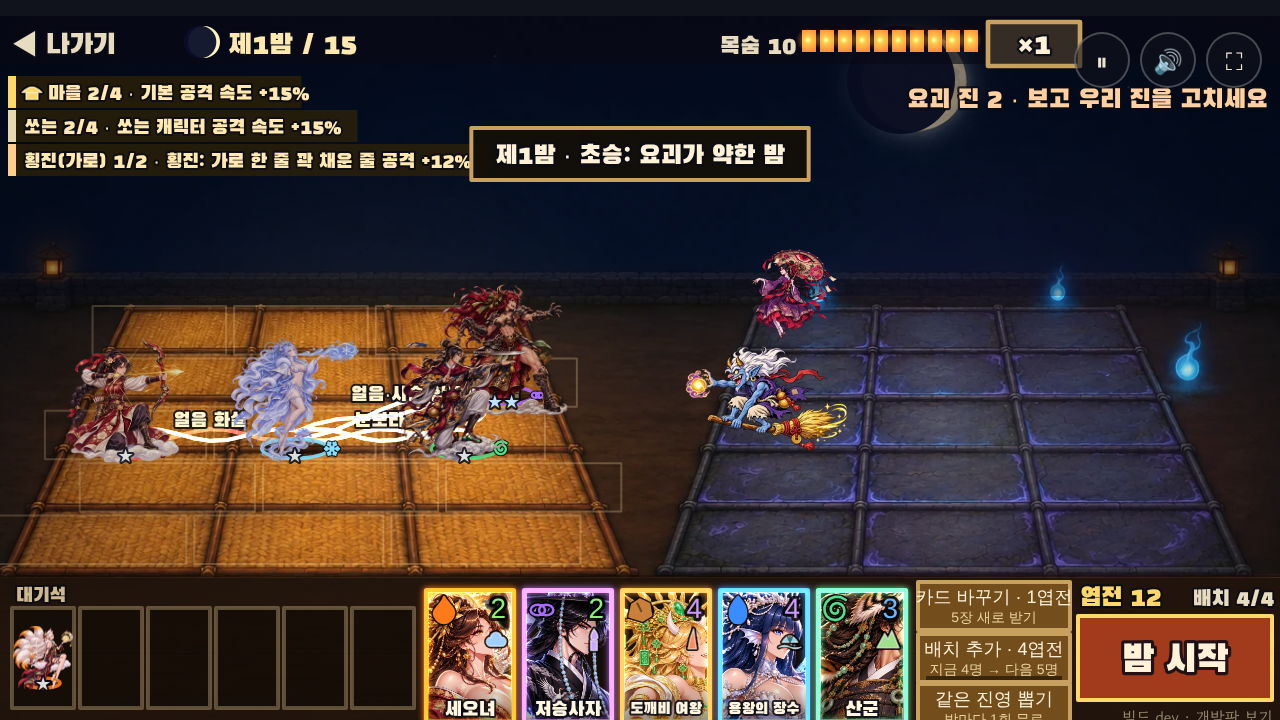
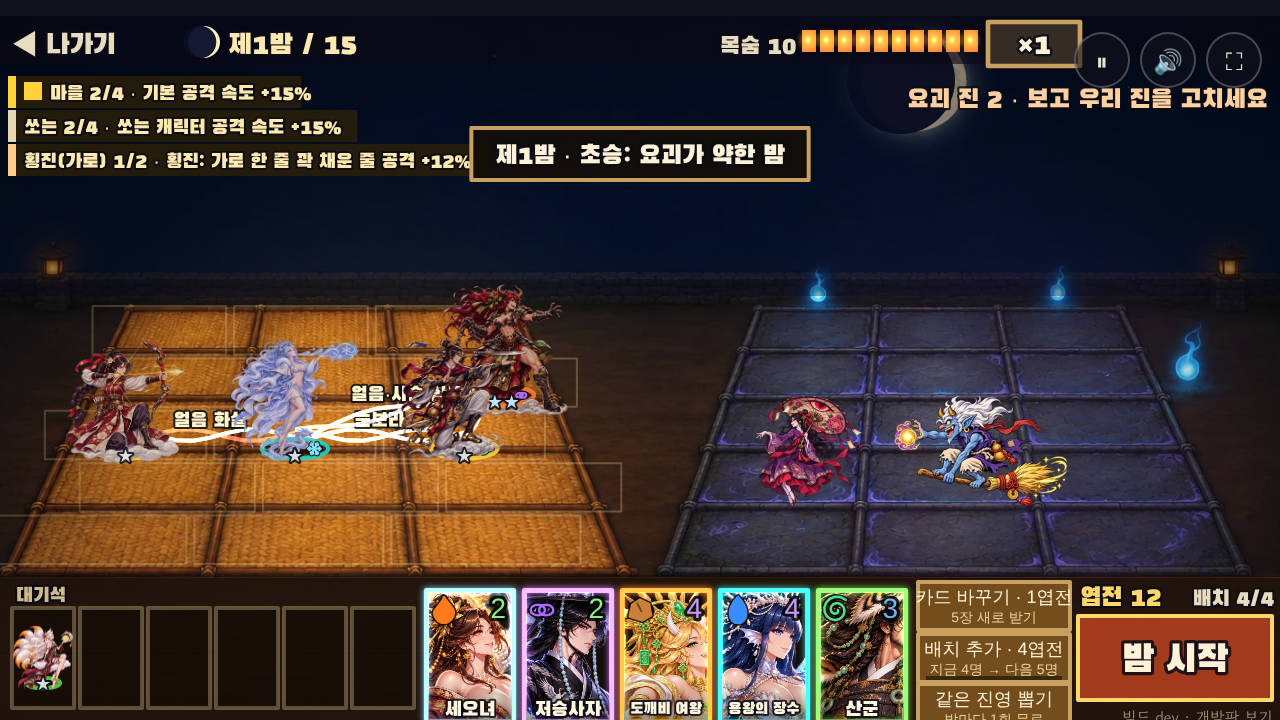
그믐: 달밤 진법 카드 — 테두리를 진영 색(하늘·저승·용궁·도깨비·산·마을 6색)으로, 숫자 밑 진영 문양 없앰, 속성은 왼쪽 위 문양 색, 진판 발밑 고리 = 진영 색 + 속성 문양, 진법 책·조합 목록 진영 색 견본 (기획 26 19절)
Claude-Session: https://claude.ai/code/session_01X3WCR5Skc58i6ujNZho15h

diff --git a/game/geumeum/dokkaebi-shooter.html b/game/geumeum/dokkaebi-shooter.html
@@ -4777,7 +4777,7 @@ const JCH = Array.from({ length: 23 }, (_, i) => i); // 23명 모두
 const JCOST = { 0: 5, 1: 5, 2: 5, 3: 1, 4: 2, 5: 3, 7: 3, 13: 2, 16: 1, 17: 1, 6: 2, 8: 4, 9: 4, 10: 4, 11: 4, 12: 4, 14: 2, 15: 3, 18: 1, 19: 3, 20: 1, 21: 2, 22: 3 };
 const JROOT = { 하늘: [2, 18, 21, 0], 저승: [13, 14, 22, 11], 용궁: [9, 8, 17, 7], 도깨비: [3, 10, 12, 4], 산: [19, 15, 6, 5], 마을: [1, 16, 20] };
 const JROOTD = { 하늘: ['스킬 기운 +20%', '밤 시작에 별빛 일격'], 저승: ['쓰러진 아군 1명 되살림(밤당 1번)', '쓰러진 적이 넋이 되어 터짐'], 용궁: ['맞은 적 젖음 오래감(피해 +10%)', '밤마다 물결 방벽 1번'], 도깨비: ['처치마다 진 엽전 +1(밤당 5)', '뚝딱: 아군 하나 1밤 동안 단계 +1'], 산: ['앞줄 막는 힘(체력) +25%', '산신 울음: 첫 5초 적 느려짐'], 마을: ['기본 공격 속도 +15%', '응원: 목숨 1개 되살림(판당 1번)'] };
-const JROOTC = { 하늘: '#9fd0ff', 저승: '#c9a8ff', 용궁: '#7fd6e6', 도깨비: '#ff8a5a', 산: '#9fe08a', 마을: '#ffd76a' };
+const JROOTC = { 하늘: '#6fc4ff', 저승: '#b072ff', 용궁: '#22d3c0', 도깨비: '#ff7a2a', 산: '#5ad04a', 마을: '#ffd23a' }; // 진영 색(카드 테두리·발밑 고리, 서로 또렷이)
 const jRootOf = ch => Object.keys(JROOT).find(k => JROOT[k].includes(ch));
 const JROLE = { 4: 'tank', 13: 'tank', 16: 'melee', 17: 'tank', 3: 'melee', 6: 'tank', 9: 'tank', 15: 'tank', 19: 'melee', 10: 'melee', 11: 'melee', 12: 'melee', 22: 'melee' }; // 나머지 = 쏘는
 const JSKT = { 6: 't6_totem', 8: 't8_lightning_wave', 9: 't9_water_slash', 10: 't10_fire_sword', 11: 't11_black_crescent', 12: 't12_gold_club', 14: 't14_lotus', 15: 't15_fire_breath', 18: 't18_web', 19: 't19_tiger_ring', 20: 't20_mask', 21: 't21_sun_silk', 22: 't22_lightning_spear', 0: 't0a_whirl', 1: 't1b_arrow_big', 2: 't2a_beam', 3: 't3_mask_bomb', 4: 't4_iron_ball', 5: 't5_foxfire', 7: 't7_ice_patch', 13: 't13_chain_tag', 16: 't16_cloud_sword', 17: 't17_whirlpool' };
@@ -4954,16 +4954,15 @@ const jElIconURL = (() => { const M = {}; return el => { if (M[el]) return M[el]
 function jCard(ch, x, y, w, h, cost) { const el = SKEL[ch] || 'heavy', ec = JELC[el] || '#c8a070', im = IMG[look(ch).cut], rc = JROOTC[jRootOf(ch)] || '#fff'; ctx.save(); ctx.fillStyle = 'rgba(20,14,10,.94)'; ctx.fillRect(x, y, w, h);
   if (ok(im)) { ctx.save(); ctx.beginPath(); ctx.rect(x + 2, y + 2, w - 4, h - 4); ctx.clip(); const sw = im.width * 0.42 / 1.3, sh = sw * (h - 4) / (w - 4); ctx.drawImage(im, im.width * 0.5 - sw / 2, im.height * 0.06, sw, sh, x + 2, y + 2, w - 4, h - 4); ctx.restore(); }
   // 테두리 = 속성 색
-  ctx.save(); ctx.globalCompositeOperation = 'lighter'; ctx.shadowColor = ec; ctx.shadowBlur = 6; ctx.strokeStyle = ec; ctx.lineWidth = 2.5; ctx.strokeRect(x + 1.2, y + 1.2, w - 2.4, h - 2.4); ctx.restore();
+  ctx.save(); ctx.globalCompositeOperation = 'lighter'; ctx.shadowColor = rc; ctx.shadowBlur = 6; ctx.strokeStyle = rc; ctx.lineWidth = 2.5; ctx.strokeRect(x + 1.2, y + 1.2, w - 2.4, h - 2.4); ctx.restore();
   const thin = (str, tx, ty, size, col, al) => { ctx.save(); ctx.font = '500 ' + size + 'px "Noto Sans KR","Apple SD Gothic Neo","Malgun Gothic",sans-serif'; ctx.textAlign = al || 'left'; ctx.lineJoin = 'round'; ctx.lineWidth = 3; ctx.strokeStyle = 'rgba(0,0,0,.85)'; ctx.strokeText(str, tx, ty); ctx.fillStyle = col; ctx.fillText(str, tx, ty); ctx.restore(); };
   // 왼쪽 위 속성(한글, 배경 없이 글자만)
   jElIcon(el, x + 10, y + 11, 6.5, ec);
   // 왼쪽 아래 뿌리 점(작게)
   // 오른쪽 위 값: 배경 없이 숫자만, 값에 따라 글자색
-  if (jRootOf(ch)) jRootIcon(jRootOf(ch), x + w - 10, y + 26, 5.5, rc);
   thin(cost + '', x + w - 5, y + 15, 14, ['#e8e8e8', '#8af07a', '#6ab8ff', '#c99aff', '#ffd23a'][cost - 1] || '#ffd23a', 'right');
   { const g = ctx.createLinearGradient(0, y + h - 22, 0, y + h); g.addColorStop(0, 'rgba(0,0,0,0)'); g.addColorStop(1, 'rgba(0,0,0,.45)'); ctx.fillStyle = g; ctx.fillRect(x + 2, y + h - 22, w - 4, 20); } { const nm = CH[ch].name; ctx.font = '10px ' + FONT; const mw = ctx.measureText(nm).width; if (mw <= w - 6) text(nm, x + w / 2, y + h - 4, 10, '#fff6e0', 'center'); else if (mw * 0.8 <= w - 6) text(nm, x + w / 2, y + h - 5, 8, '#fff6e0', 'center'); else { const sp = nm.indexOf(' '), a = sp > 0 ? nm.slice(0, sp) : nm.slice(0, Math.ceil(nm.length / 2)), b = sp > 0 ? nm.slice(sp + 1) : nm.slice(Math.ceil(nm.length / 2)); text(a, x + w / 2, y + h - 11, 7.5, '#fff6e0', 'center'); text(b, x + w / 2, y + h - 3, 7.5, '#fff6e0', 'center'); } } ctx.restore(); }
-function jUnitSpr(u, x, y, sc, a) { if (u.yk) { ctx.save(); ctx.globalCompositeOperation = 'lighter'; glow('blue', x, y - 14 * sc, 30 * sc, 0.5); ctx.restore(); ctx.save(); ctx.globalAlpha = 0.9; spr(u.img, x, y - 20 * sc, 44 * sc * JINK.spr, { flip: 1 }); ctx.restore(); text('封', x + 16 * sc, y + 12 * sc, 11, '#9fd8ff', 'center'); return; } ctx.save(); ctx.globalAlpha = (a == null ? 1 : a) * 0.55; ctx.fillStyle = '#000'; ctx.beginPath(); ctx.ellipse(x, y + 7 * sc, 17 * sc, 5 * sc, 0, 0, TAU); ctx.fill(); { const el = SKEL[u.ch] || 'heavy', bl = J && J.drag && J.drag.u !== u && (SKEL[J.drag.u.ch] || 'heavy') === el; ctx.globalAlpha = (a == null ? 1 : a) * (bl ? 0.5 + 0.5 * Math.abs(Math.sin(G.time * 8)) : 0.9); ctx.strokeStyle = JELC[el] || '#fff'; ctx.lineWidth = bl ? 2.6 : 1.8; ctx.stroke(); ctx.globalAlpha = (a == null ? 1 : a); if (y < JB.uiY) jElIcon(el, x + 19 * sc, y + 7 * sc, 3.6 * Math.max(0.9, sc), JELC[el]); } ctx.restore(); const img = u.star === 3 && AWK2.spr[u.ch] && ok(IMG[AWK2.spr[u.ch]]) ? AWK2.spr[u.ch] : look(u.ch).img; ctx.save(); if (a != null) ctx.globalAlpha = a; if (u.star === 3) { ctx.globalCompositeOperation = 'lighter'; glow('gold', x, y, 22 * sc, 0.5); ctx.globalCompositeOperation = 'source-over'; } { const v = (y - JB.tl[1]) / (JB.bl[1] - JB.tl[1]); if (v >= -0.1 && v <= 1.1 && !(J && J.hlU === u)) ctx.filter = 'brightness(' + (0.68 + 0.32 * Math.max(0, Math.min(1, v))).toFixed(2) + ')'; } spr(img, x, y - 18 * sc * (J && J.big === 0 ? 0.6 : 1), (u.star === 3 ? 62 : u.star === 2 ? 54 : 48) * sc * JINK.spr, { flip: CH[u.ch].flip }); ctx.restore(); text('★'.repeat(u.star), x, y + 14 * sc, 8, u.star === 3 ? '#ffd76a' : u.star === 2 ? '#bfe4ff' : '#ddd', 'center'); }
+function jUnitSpr(u, x, y, sc, a) { if (u.yk) { ctx.save(); ctx.globalCompositeOperation = 'lighter'; glow('blue', x, y - 14 * sc, 30 * sc, 0.5); ctx.restore(); ctx.save(); ctx.globalAlpha = 0.9; spr(u.img, x, y - 20 * sc, 44 * sc * JINK.spr, { flip: 1 }); ctx.restore(); text('封', x + 16 * sc, y + 12 * sc, 11, '#9fd8ff', 'center'); return; } ctx.save(); ctx.globalAlpha = (a == null ? 1 : a) * 0.55; ctx.fillStyle = '#000'; ctx.beginPath(); ctx.ellipse(x, y + 7 * sc, 17 * sc, 5 * sc, 0, 0, TAU); ctx.fill(); { const el = SKEL[u.ch] || 'heavy', bl = J && J.drag && J.drag.u !== u && (SKEL[J.drag.u.ch] || 'heavy') === el; ctx.globalAlpha = (a == null ? 1 : a) * (bl ? 0.5 + 0.5 * Math.abs(Math.sin(G.time * 8)) : 0.9); ctx.strokeStyle = JROOTC[jRootOf(u.ch)] || '#fff'; ctx.lineWidth = bl ? 2.8 : 2.2; ctx.stroke(); ctx.globalAlpha = (a == null ? 1 : a); if (y < JB.uiY) jElIcon(el, x + 10 * sc, y + 7 * sc, 3.2 * Math.max(0.9, sc), JELC[el]); } ctx.restore(); const img = u.star === 3 && AWK2.spr[u.ch] && ok(IMG[AWK2.spr[u.ch]]) ? AWK2.spr[u.ch] : look(u.ch).img; ctx.save(); if (a != null) ctx.globalAlpha = a; if (u.star === 3) { ctx.globalCompositeOperation = 'lighter'; glow('gold', x, y, 22 * sc, 0.5); ctx.globalCompositeOperation = 'source-over'; } { const v = (y - JB.tl[1]) / (JB.bl[1] - JB.tl[1]); if (v >= -0.1 && v <= 1.1 && !(J && J.hlU === u)) ctx.filter = 'brightness(' + (0.68 + 0.32 * Math.max(0, Math.min(1, v))).toFixed(2) + ')'; } spr(img, x, y - 18 * sc * (J && J.big === 0 ? 0.6 : 1), (u.star === 3 ? 62 : u.star === 2 ? 54 : 48) * sc * JINK.spr, { flip: CH[u.ch].flip }); ctx.restore(); text('★'.repeat(u.star), x, y + 14 * sc, 8, u.star === 3 ? '#ffd76a' : u.star === 2 ? '#bfe4ff' : '#ddd', 'center'); }
 function jMoon(x, y, r, n) { ctx.save(); ctx.fillStyle = '#fff3c0'; ctx.beginPath(); ctx.arc(x, y, r, 0, TAU); ctx.fill(); const k = n <= 8 ? n / 8 : (15 - n) / 7, side = n <= 8 ? -1 : 1; if (k < 0.98) { ctx.fillStyle = 'rgba(10,14,40,.95)'; ctx.beginPath(); ctx.arc(x + side * r * 2 * k, y, r * 1.02, 0, TAU); ctx.fill(); } ctx.restore(); }
 // 배경 정리(사용자 11/24): 마을·하늘은 흐리고 어둡게, 진판 두 곳만 또렷하게 — 한 번만 만들어 둠
 let jBgC = null;
@@ -5019,7 +5018,7 @@ function jDraw() { ctx.setTransform(SC, 0, 0, SC, 0, 0); JINK.spr = J && (J.phas
   ctx.save(); ctx.fillStyle = 'rgba(10,8,20,.6)'; ctx.fillRect(0, 0, W, 24); ctx.restore(); text('◀ 나가기', 6, 19, 14, '#e8dcc0'); { const b = JUI.spd, on = JS().spd === 2; ctx.fillStyle = on ? 'rgba(170,90,30,.95)' : 'rgba(60,50,40,.85)'; ctx.fillRect(b.x, b.y, b.w, b.h); ctx.strokeStyle = '#c8a060'; ctx.strokeRect(b.x, b.y, b.w, b.h); text(on ? '×2' : '×1', b.x + b.w / 2, b.y + 16, 14, '#fff2d8', 'center'); } jMoon(102, 13, 8, J.night); text((J.tut ? '배우기 · ' : '') + '제' + J.night + '밤 / ' + (J.tut ? 3 : JIN.nights) + (!J.tut && JIN.bossN.includes(J.night) ? ' · 대장' : ''), 114, 19, 14, '#ffe9b0');
   for (let i = 0; i < JIN.lanterns; i++) { const x = W / 2 + 84 + i * 9, lit = i < J.lan; ctx.fillStyle = lit ? '#ff8a3a' : '#3a3030'; ctx.fillRect(x - 3, 7, 7, 11); if (lit) { ctx.save(); ctx.globalCompositeOperation = 'lighter'; glow('fire', x, 12, 6, 0.6); ctx.restore(); } } text('목숨 ' + J.lan, W / 2 + 40, 19, 12, '#e8dcc0');
   // 뿌리 목록(왼쪽 위)
-  const SY = jSyn().filter(o => o.lv > 0 || (o.n >= 2 && o.n >= o.need - 1)); let ry = 42; for (const o of SY.slice(0, 7)) { const nm = o.name || o.k, s0 = nm + ' ' + o.n + '/' + o.need + (o.lv ? ' · ' + o.d[Math.min(o.d.length, o.lv) - 1] : ''); ctx.font = '10px ' + FONT; const rw = Math.min(300, ctx.measureText(s0).width + 16); ctx.fillStyle = o.lv ? 'rgba(40,30,10,.9)' : 'rgba(20,20,30,.72)'; ctx.fillRect(4, ry - 12, rw, 16); ctx.fillStyle = o.col; ctx.fillRect(4, ry - 12, 4, 16); if (o.g === 'root') { jRootIcon(o.k, 16, ry - 4, 5, o.col); text(s0, 24, ry, 10, o.lv ? '#ffe9b0' : '#cfcfcf'); } else text(s0, 12, ry, 10, o.lv ? '#ffe9b0' : '#cfcfcf'); ry += 17; } if (SY.length > 7) text('+' + (SY.length - 7) + '개 더 (진법 책)', 8, ry, 9, '#cdb890');
+  const SY = jSyn().filter(o => o.lv > 0 || (o.n >= 2 && o.n >= o.need - 1)); let ry = 42; for (const o of SY.slice(0, 7)) { const nm = o.name || o.k, s0 = nm + ' ' + o.n + '/' + o.need + (o.lv ? ' · ' + o.d[Math.min(o.d.length, o.lv) - 1] : ''); ctx.font = '10px ' + FONT; const rw = Math.min(300, ctx.measureText(s0).width + 16); ctx.fillStyle = o.lv ? 'rgba(40,30,10,.9)' : 'rgba(20,20,30,.72)'; ctx.fillRect(4, ry - 12, rw, 16); ctx.fillStyle = o.col; ctx.fillRect(4, ry - 12, 4, 16); if (o.g === 'root') { ctx.fillStyle = o.col; ctx.fillRect(12, ry - 9, 9, 9); text(s0, 25, ry, 10, o.lv ? '#ffe9b0' : '#cfcfcf'); } else text(s0, 12, ry, 10, o.lv ? '#ffe9b0' : '#cfcfcf'); ry += 17; } if (SY.length > 7) text('+' + (SY.length - 7) + '개 더 (진법 책)', 8, ry, 9, '#cdb890');
   if (fight) { text('처치 ' + J.kills + ' · 남은 요괴 ' + J.en.length + ' · ' + Math.max(0, Math.ceil(JIN.fightMax - J.ft)) + '초', W - 6, 46, 13, '#ffd0a0', 'right'); } else if (J.foe) text('요괴 진 ' + J.foe.length + (J.foe.some(f => f.boss) ? ' · 대장' : '') + ' · 보고 우리 진을 고치세요', W - 6, 46, 13, '#ffd0a0', 'right');
   // 아래 띠
   ctx.save(); ctx.fillStyle = 'rgba(30,20,12,.82)'; ctx.fillRect(0, JB.uiY + 2, W, H - JB.uiY); ctx.restore();
@@ -5060,7 +5059,7 @@ function jinFree() { const S = JS(), d = new Date().toDateString(); if (S.free.d
 function jinMenu(sub) { const S = JS(); G.mode = 'title'; jinOv.hidden = false; $('ovTitle').hidden = true; $('ovArcade').hidden = true; const f = jinFree(), run = S.run;
   const B = (id, t, s, dis) => '<button type="button" data-j="' + id + '"' + (dis ? ' disabled' : '') + ' style="display:block;width:100%;text-align:left;padding:.9cqw 1.6cqw;margin:.3cqw 0;background:rgba(60,36,16,.85);border:.25cqw solid #c8a060;border-radius:1cqw;color:#fff2d8;font-size:2.1cqw;' + (dis ? 'opacity:.45;' : '') + '"><b>▶ ' + t + '</b> <small style="color:#e0c890;font-size:1.5cqw">' + s + '</small></button>';
   let h = '<div style="display:flex;justify-content:space-between;width:100%;align-items:center"><button type="button" data-j="x" style="background:none;border:0;color:#e8dcc0;font-size:1.8cqw">◀ 장터로</button><h2 style="margin:0;font-size:3.6cqw;letter-spacing:.4cqw;text-shadow:0 0 1cqw #000">달밤 진법</h2><span style="font-size:1.6cqw">오늘 무료 ' + Math.max(0, f) + '/' + JIN.freeDay + '판</span></div>';
-  if (sub === 'book') { h += '<div style="width:100%;background:rgba(20,14,8,.88);border:.2cqw solid #c8a060;border-radius:1cqw;padding:1.2cqw;font-size:1.6cqw;line-height:1.5"><b>① 진영</b> (같은 진영 캐릭터 2·4명)<br>' + Object.keys(JROOT).map(r => '<img src="' + jRootIconURL(r) + '" style="width:2.4cqw;vertical-align:middle"> <span style="color:' + JROOTC[r] + '">' + r + '</span>: ' + JROOT[r].map(c => CH[c].name + (JCH.includes(c) ? '' : '(정식판)')).join('·') + ' — 2명 ' + JROOTD[r][0] + ' / 4명 ' + JROOTD[r][1]).join('<br>') + '<br><br><b>①-2 역할 조합</b> (막는·베는·쏘는 2·4명)<br>' + Object.keys(JROLED).map(r => JROLEN[r] + ': ' + JROLED[r].join(' / ')).join('<br>') + '<br><b>①-3 특별 짝</b><br>' + JSPEC.map(o => o.n + ' — ' + o.m.map(c => CH[c].name).join('·') + ': ' + o.d.split(' · ')[1]).join('<br>') + '<br><br><b>② 속성</b><br>' + Object.keys(JELN).map(e => '<img src="' + jElIconURL(e) + '" style="width:2.4cqw;vertical-align:middle"> <span style="color:' + JELC[e] + '">' + JELN[e] + '</span>: ' + JCH.filter(c => (SKEL[c] || 'heavy') === e).map(c => CH[c].name).join('·')).join('<br>') + '<br><br><b>②-2 속성 연계</b> 이웃 칸 두 캐릭터 속성이 맞으면 두 색 실, 둘 다 스킬을 3초 안에 쓰면 연계 일격(기획 23 표 24종)<br><br><b>③ 캐릭터</b> (23명)<br>' + JCH.map(c => CH[c].name + ' · ' + JCOST[c] + '엽전 · ' + jRootOf(c) + ' · ' + (EL[SKEL[c]] || '무거움') + ' · ' + ({ tank: '막는', melee: '베는', ranged: '쏘는' })[JROLE[c] || 'ranged'] + ' · 스킬 ' + SKNAME[c]).join('<br>') + '<br><br><b>④ 밤손님</b> 3·8·13밤에 셋 중 하나: ' + Object.values(JGUEST).map(g => g[0] + '(' + g[1] + ')').join(' · ') + '<br><b>⑤ 달 모양</b> 1~4 초승 · 6~9 보름(각성 밤) · 11~14 이지러짐(어둠 칸) · 5·10·15 대장<br><b>⑥ 봉인</b> 싸움 중 체력이 낮아진 요괴에 「封」, 이긴 밤 끝에 하나를 골라 다음 밤 함께 싸움</div>' + B('back', '돌아가기', '') ; }
+  if (sub === 'book') { h += '<div style="width:100%;background:rgba(20,14,8,.88);border:.2cqw solid #c8a060;border-radius:1cqw;padding:1.2cqw;font-size:1.6cqw;line-height:1.5"><b>① 진영</b> (같은 진영 캐릭터 2·4명)<br>' + Object.keys(JROOT).map(r => '<span style="display:inline-block;width:1.6cqw;height:1.6cqw;border-radius:.3cqw;background:' + JROOTC[r] + ';vertical-align:middle"></span> <span style="color:' + JROOTC[r] + '">' + r + '</span>: ' + JROOT[r].map(c => CH[c].name + (JCH.includes(c) ? '' : '(정식판)')).join('·') + ' — 2명 ' + JROOTD[r][0] + ' / 4명 ' + JROOTD[r][1]).join('<br>') + '<br><br><b>①-2 역할 조합</b> (막는·베는·쏘는 2·4명)<br>' + Object.keys(JROLED).map(r => JROLEN[r] + ': ' + JROLED[r].join(' / ')).join('<br>') + '<br><b>①-3 특별 짝</b><br>' + JSPEC.map(o => o.n + ' — ' + o.m.map(c => CH[c].name).join('·') + ': ' + o.d.split(' · ')[1]).join('<br>') + '<br><br><b>② 속성</b><br>' + Object.keys(JELN).map(e => '<img src="' + jElIconURL(e) + '" style="width:2.4cqw;vertical-align:middle"> <span style="color:' + JELC[e] + '">' + JELN[e] + '</span>: ' + JCH.filter(c => (SKEL[c] || 'heavy') === e).map(c => CH[c].name).join('·')).join('<br>') + '<br><br><b>②-2 속성 연계</b> 이웃 칸 두 캐릭터 속성이 맞으면 두 색 실, 둘 다 스킬을 3초 안에 쓰면 연계 일격(기획 23 표 24종)<br><br><b>③ 캐릭터</b> (23명)<br>' + JCH.map(c => CH[c].name + ' · ' + JCOST[c] + '엽전 · ' + jRootOf(c) + ' · ' + (EL[SKEL[c]] || '무거움') + ' · ' + ({ tank: '막는', melee: '베는', ranged: '쏘는' })[JROLE[c] || 'ranged'] + ' · 스킬 ' + SKNAME[c]).join('<br>') + '<br><br><b>④ 밤손님</b> 3·8·13밤에 셋 중 하나: ' + Object.values(JGUEST).map(g => g[0] + '(' + g[1] + ')').join(' · ') + '<br><b>⑤ 달 모양</b> 1~4 초승 · 6~9 보름(각성 밤) · 11~14 이지러짐(어둠 칸) · 5·10·15 대장<br><b>⑥ 봉인</b> 싸움 중 체력이 낮아진 요괴에 「封」, 이긴 밤 끝에 하나를 골라 다음 밤 함께 싸움</div>' + B('back', '돌아가기', '') ; }
   else if (sub === 'rec') { const use = Object.entries(S.use || {}).sort((a, b) => b[1] - a[1]).slice(0, 3).map(([c, n]) => CH[c].name + ' ' + n).join(' · ') || '없음'; h += '<div style="width:100%;background:rgba(20,14,8,.88);border:.2cqw solid #c8a060;border-radius:1cqw;padding:1.2cqw;font-size:1.8cqw;line-height:1.6">최고로 막은 밤: <b>' + S.best + '밤</b><br>판 수: ' + S.runs + ' · 다섯 밤 완성: ' + S.clear + '번<br>많이 쓴 캐릭터: ' + use + '<br>처음 달성 보상: 5밤 20 ' + (S.got5 ? '✔' : '') + ' · 10밤 40 ' + (S.got10 ? '✔' : '') + ' · 15밤 80 ' + (S.got15 ? '✔' : '') + '</div>' + B('back', '돌아가기', ''); }
   else { if (run) h += B('cont', '이어 하기', '제' + run.night + '밤부터 이어서 · 목숨 ' + run.lan); h += B('new', '새 판 펼치기', (f > 0 ? '무료(오늘 ' + f + '판 남음)' : '골드 ' + JIN.payGold) + ' · 보통 진법 · 15밤' + (S.tut || TEST_UNLOCK ? '' : ' · 먼저 진법 배우기'), !S.tut && !TEST_UNLOCK) + B('tut', '진법 배우기', '연습 3밤' + (S.tut ? ' · 다시 하기' : ' · 처음 한 번 필수 · 달조각 ' + JIN.tutReward)) + B('book', '진법 책', '진영·속성·연계·캐릭터 정보') + B('rec', '기록과 보상', '최고 ' + S.best + '밤') + B('pvp', '그림자 진 겨루기', '🔒 2단계', true) + '<p style="font-size:1.4cqw;color:#cdb890;margin:.4cqw 0">캐릭터 23명 · 15밤(5·10·15밤째 대장) · 달 모양에 따라 밤마다 규칙이 바뀝니다. 판 안 재화 「진 엽전」은 판이 끝나면 사라집니다.</p>'; }
   jinOv.innerHTML = h; jinOv.querySelectorAll('[data-j]').forEach(b => b.onclick = () => jinAct(b.dataset.j)); needImg('jin_board_bg'); }
